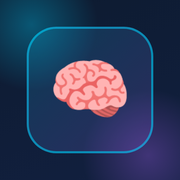
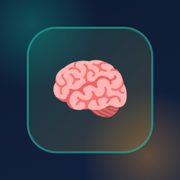
update

diff --git a/css/style.css b/css/style.css
@@ -8,12 +8,12 @@
     --bg:      #07101f;
     --bg2:     #0d1b30;
     --bg3:     #122040;
-    --cyan:    #00d4ff;
-    --cyan10:  rgba(0, 212, 255, 0.10);
-    --cyan20:  rgba(0, 212, 255, 0.20);
-    --purple:  #9b5de5;
-    --purple10:rgba(155, 93, 229, 0.10);
-    --purple22:rgba(155, 93, 229, 0.22);
+    --cyan:    #14b8a6;
+    --cyan10:  rgba(20, 184, 166, 0.10);
+    --cyan20:  rgba(20, 184, 166, 0.20);
+    --purple:  #f2a53a;
+    --purple10:rgba(242, 165, 58, 0.10);
+    --purple22:rgba(242, 165, 58, 0.22);
     --text:    #e0e8f8;
     --muted:   #8ea0c4;
     --border:  rgba(255, 255, 255, 0.07);
@@ -41,10 +41,10 @@ body::before {
     inset: 0;
     z-index: -2;
     background:
-        radial-gradient(ellipse 900px 650px at 12% -8%, rgba(0, 212, 255, 0.14), transparent 60%),
-        radial-gradient(ellipse 800px 650px at 92% 28%, rgba(155, 93, 229, 0.14), transparent 60%),
-        radial-gradient(ellipse 700px 550px at 25% 92%, rgba(0, 212, 255, 0.09), transparent 60%),
-        radial-gradient(ellipse 700px 550px at 80% 96%, rgba(155, 93, 229, 0.10), transparent 60%);
+        radial-gradient(ellipse 900px 650px at 12% -8%, rgba(20, 184, 166, 0.14), transparent 60%),
+        radial-gradient(ellipse 800px 650px at 92% 28%, rgba(242, 165, 58, 0.14), transparent 60%),
+        radial-gradient(ellipse 700px 550px at 25% 92%, rgba(20, 184, 166, 0.09), transparent 60%),
+        radial-gradient(ellipse 700px 550px at 80% 96%, rgba(242, 165, 58, 0.10), transparent 60%);
 }
 
 body::after {
@@ -331,7 +331,7 @@ nav::after {
     position: absolute;
     inset: 0;
     pointer-events: none;
-    background: radial-gradient(circle 340px at var(--mx, 50%) var(--my, 15%), rgba(0, 212, 255, 0.12), transparent 70%);
+    background: radial-gradient(circle 340px at var(--mx, 50%) var(--my, 15%), rgba(20, 184, 166, 0.12), transparent 70%);
     opacity: 0;
     transition: opacity 0.5s ease;
     z-index: 0;
@@ -409,17 +409,17 @@ h1 {
     white-space: nowrap;
     transition: background-position 0.4s ease, box-shadow 0.3s ease, transform 0.2s ease;
     display: inline-block;
-    box-shadow: 0 10px 30px rgba(0, 212, 255, 0.18);
+    box-shadow: 0 10px 30px rgba(20, 184, 166, 0.18);
 }
 
 .btn-primary:hover {
     background-position: 100% 0%;
-    box-shadow: 0 14px 34px rgba(155, 93, 229, 0.28);
+    box-shadow: 0 14px 34px rgba(242, 165, 58, 0.28);
     transform: translateY(-2px);
 }
 
 .btn-ghost {
-    border: 1px solid rgba(0, 212, 255, 0.3);
+    border: 1px solid rgba(20, 184, 166, 0.3);
     color: var(--cyan);
     font-size: 0.9rem;
     padding: 0.85rem 2rem;
@@ -430,7 +430,7 @@ h1 {
 }
 
 .btn-ghost:hover {
-    background: rgba(0, 212, 255, 0.07);
+    background: rgba(20, 184, 166, 0.07);
 }
 
 .tags {
@@ -486,6 +486,8 @@ h1 {
     overflow: hidden;
     border: 1px solid var(--border);
     animation: hvFloat 6s ease-in-out infinite;
+    transition: transform 0.55s cubic-bezier(0.16, 1, 0.3, 1), box-shadow 0.55s cubic-bezier(0.16, 1, 0.3, 1), opacity 0.4s ease, filter 0.4s ease;
+    will-change: transform;
 }
 
 .hv-card img {
@@ -494,6 +496,22 @@ h1 {
     object-fit: cover;
     display: block;
     filter: saturate(1.05);
+    transition: transform 0.7s cubic-bezier(0.16, 1, 0.3, 1);
+}
+
+.hv-card:hover {
+    animation-play-state: paused;
+    z-index: 5;
+    transform: translateY(-22px) scale(1.07);
+}
+
+.hv-card:hover img {
+    transform: scale(1.08);
+}
+
+.hero-visual:hover .hv-card:not(:hover) {
+    opacity: 0.82;
+    filter: saturate(0.85);
 }
 
 .hv-badge {
@@ -510,15 +528,15 @@ h1 {
 }
 
 .hv-badge-tech {
-    background: rgba(0, 212, 255, 0.16);
+    background: rgba(20, 184, 166, 0.16);
     border: 1px solid var(--cyan20);
     color: var(--cyan);
 }
 
 .hv-badge-psych {
-    background: rgba(155, 93, 229, 0.18);
+    background: rgba(242, 165, 58, 0.18);
     border: 1px solid var(--purple22);
-    color: #cba9f5;
+    color: #ffd9a3;
 }
 
 .hv-tech {
@@ -526,7 +544,11 @@ h1 {
     right: 0;
     z-index: 2;
     border-color: var(--cyan20);
-    box-shadow: 0 24px 60px rgba(0, 212, 255, 0.16);
+    box-shadow: 0 24px 60px rgba(20, 184, 166, 0.16);
+}
+
+.hv-tech:hover {
+    box-shadow: 0 44px 90px rgba(20, 184, 166, 0.4), 0 0 0 1px var(--cyan20);
 }
 
 .hv-psych {
@@ -534,8 +556,12 @@ h1 {
     left: 0;
     z-index: 1;
     border-color: var(--purple22);
-    box-shadow: 0 24px 60px rgba(155, 93, 229, 0.18);
+    box-shadow: 0 24px 60px rgba(242, 165, 58, 0.18);
     animation-delay: 0.6s;
+}
+
+.hv-psych:hover {
+    box-shadow: 0 44px 90px rgba(242, 165, 58, 0.42), 0 0 0 1px var(--purple22);
 }
 
 @keyframes hvFloat {
@@ -707,12 +733,12 @@ h2 em {
 .founder-card:hover {
     border-color: var(--cyan20);
     transform: translateY(-4px);
-    box-shadow: 0 20px 40px rgba(0, 212, 255, 0.12);
+    box-shadow: 0 20px 40px rgba(20, 184, 166, 0.12);
 }
 
 .founder-card:has(.fa-psych):hover {
     border-color: var(--purple22);
-    box-shadow: 0 20px 40px rgba(155, 93, 229, 0.16);
+    box-shadow: 0 20px 40px rgba(242, 165, 58, 0.16);
 }
 
 .founder-avatar {
@@ -739,8 +765,8 @@ h2 em {
 }
 
 @keyframes avatarPulse {
-    0%, 100% { box-shadow: 0 0 0 0 rgba(0, 212, 255, 0.18); }
-    50%      { box-shadow: 0 0 0 8px rgba(0, 212, 255, 0); }
+    0%, 100% { box-shadow: 0 0 0 0 rgba(20, 184, 166, 0.18); }
+    50%      { box-shadow: 0 0 0 8px rgba(20, 184, 166, 0); }
 }
 
 .founder-role {
@@ -802,12 +828,12 @@ h2 em {
 
 .svc-tech:hover {
     border-color: var(--cyan20);
-    box-shadow: 0 24px 50px rgba(0, 212, 255, 0.1);
+    box-shadow: 0 24px 50px rgba(20, 184, 166, 0.1);
 }
 
 .svc-psych:hover {
     border-color: var(--purple22);
-    box-shadow: 0 24px 50px rgba(155, 93, 229, 0.14);
+    box-shadow: 0 24px 50px rgba(242, 165, 58, 0.14);
 }
 
 .svc-col-head {
@@ -915,23 +941,23 @@ h2 em {
     font-size: 4.5rem;
     font-weight: 800;
     color: transparent;
-    -webkit-text-stroke: 1px rgba(0, 212, 255, 0.14);
+    -webkit-text-stroke: 1px rgba(20, 184, 166, 0.14);
     pointer-events: none;
 }
 
 .why-card:hover {
     border-color: var(--cyan20);
     transform: translateY(-4px);
-    box-shadow: 0 20px 40px rgba(0, 212, 255, 0.1);
+    box-shadow: 0 20px 40px rgba(20, 184, 166, 0.1);
 }
 
 .why-card:nth-child(even)::before {
-    -webkit-text-stroke: 1px rgba(155, 93, 229, 0.18);
+    -webkit-text-stroke: 1px rgba(242, 165, 58, 0.18);
 }
 
 .why-card:nth-child(even):hover {
     border-color: var(--purple22);
-    box-shadow: 0 20px 40px rgba(155, 93, 229, 0.14);
+    box-shadow: 0 20px 40px rgba(242, 165, 58, 0.14);
 }
 
 .why-num {
@@ -1013,13 +1039,13 @@ h2 em {
     border-radius: 50%;
     background: var(--bg);
     border: 2px solid var(--cyan);
-    box-shadow: 0 0 12px rgba(0, 212, 255, 0.45);
+    box-shadow: 0 0 12px rgba(20, 184, 166, 0.45);
     z-index: 1;
 }
 
 .process-step:nth-child(even)::before {
     border-color: var(--purple);
-    box-shadow: 0 0 12px rgba(155, 93, 229, 0.45);
+    box-shadow: 0 0 12px rgba(242, 165, 58, 0.45);
 }
 
 .process-step:last-child {
@@ -1102,7 +1128,7 @@ h2 em {
 .portfolio-card:hover {
     border-color: var(--cyan20);
     transform: translateY(-4px);
-    box-shadow: 0 24px 50px rgba(0, 212, 255, 0.12);
+    box-shadow: 0 24px 50px rgba(20, 184, 166, 0.12);
 }
 
 .portfolio-img-wrap {
@@ -1126,7 +1152,7 @@ h2 em {
 .portfolio-overlay {
     position: absolute;
     inset: 0;
-    background: rgba(0, 212, 255, 0.12);
+    background: rgba(20, 184, 166, 0.12);
     display: flex;
     align-items: center;
     justify-content: center;
@@ -1245,7 +1271,7 @@ h2 em {
     position: absolute;
     width: 340px;
     height: 340px;
-    background: radial-gradient(circle, rgba(0, 212, 255, 0.14), transparent 70%);
+    background: radial-gradient(circle, rgba(20, 184, 166, 0.14), transparent 70%);
     top: -140px;
     left: -100px;
     pointer-events: none;
@@ -1256,7 +1282,7 @@ h2 em {
     position: absolute;
     width: 340px;
     height: 340px;
-    background: radial-gradient(circle, rgba(155, 93, 229, 0.16), transparent 70%);
+    background: radial-gradient(circle, rgba(242, 165, 58, 0.16), transparent 70%);
     bottom: -140px;
     right: -100px;
     pointer-events: none;
@@ -1364,7 +1390,7 @@ footer p a {
     height: 56px;
     border-radius: 50%;
     background: var(--grad-brand);
-    box-shadow: 0 12px 30px rgba(0, 212, 255, 0.28);
+    box-shadow: 0 12px 30px rgba(20, 184, 166, 0.28);
     font-size: 1.5rem;
     opacity: 0;
     transform: translateY(16px) scale(0.9);
@@ -1379,7 +1405,7 @@ footer p a {
 }
 
 .wa-float:hover {
-    box-shadow: 0 16px 36px rgba(155, 93, 229, 0.32);
+    box-shadow: 0 16px 36px rgba(242, 165, 58, 0.32);
     transform: translateY(-3px);
 }
 
